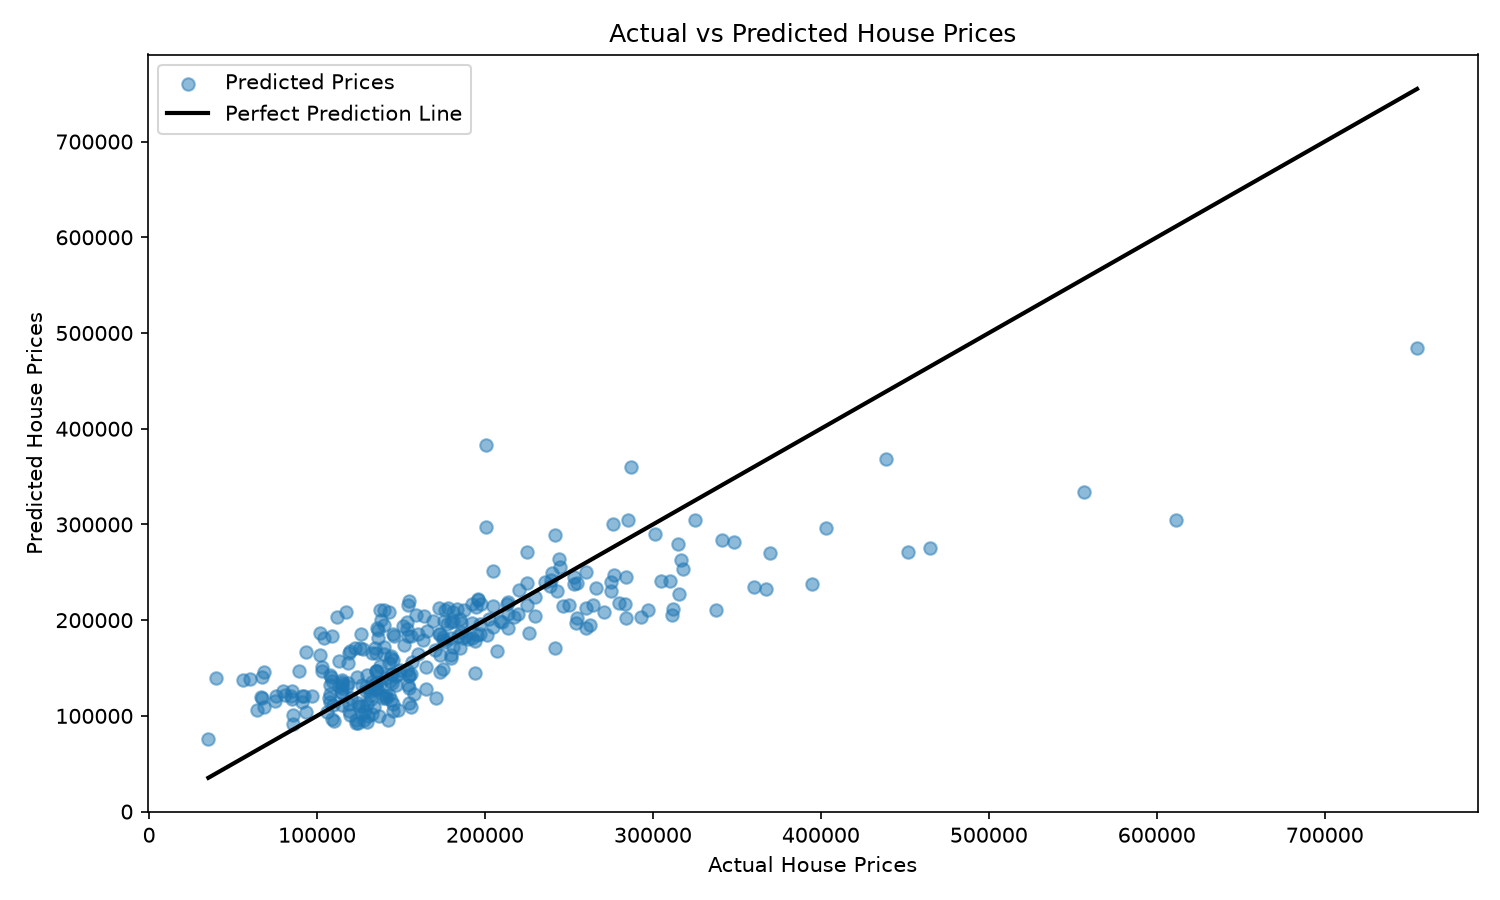
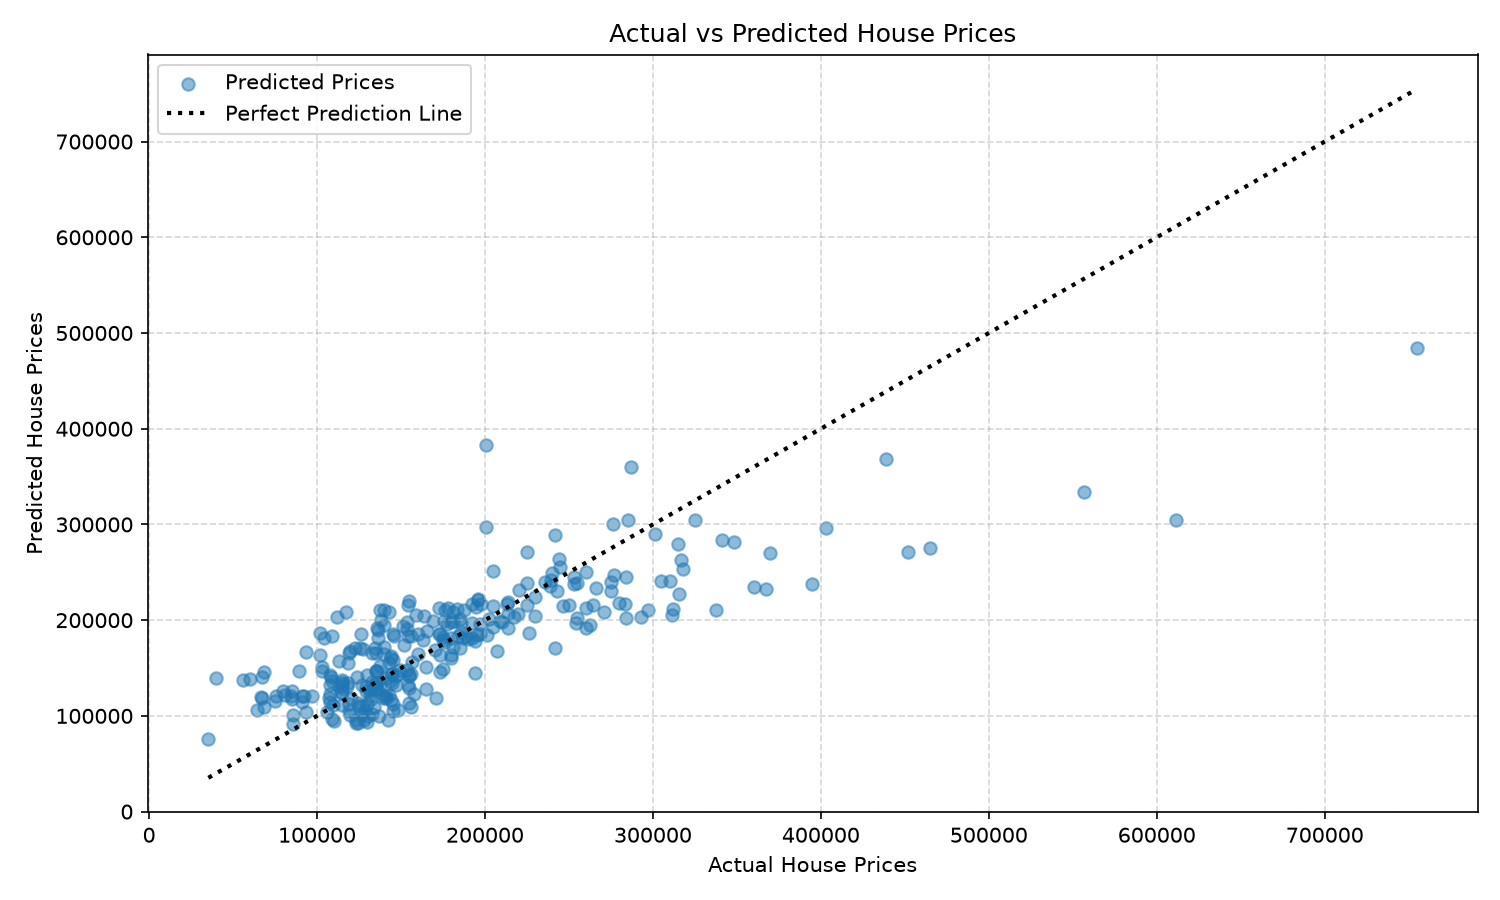
Update graph with grid and dotted line

diff --git a/src/train_model.py b/src/train_model.py
@@ -1,4 +1,3 @@
-
 import pandas as pd
 import joblib
 import os
@@ -44,6 +43,7 @@ plt.plot(
     [min_price, max_price],
     [min_price, max_price],
     color="black",
+    linestyle=":",
     linewidth=2,
     label="Perfect Prediction Line"
 )
@@ -51,6 +51,9 @@ plt.plot(
 plt.xlabel("Actual House Prices")
 plt.ylabel("Predicted House Prices")
 plt.title("Actual vs Predicted House Prices")
+
+plt.grid(True, linestyle="--", alpha=0.5)
+
 plt.legend()
 plt.tight_layout()
 
